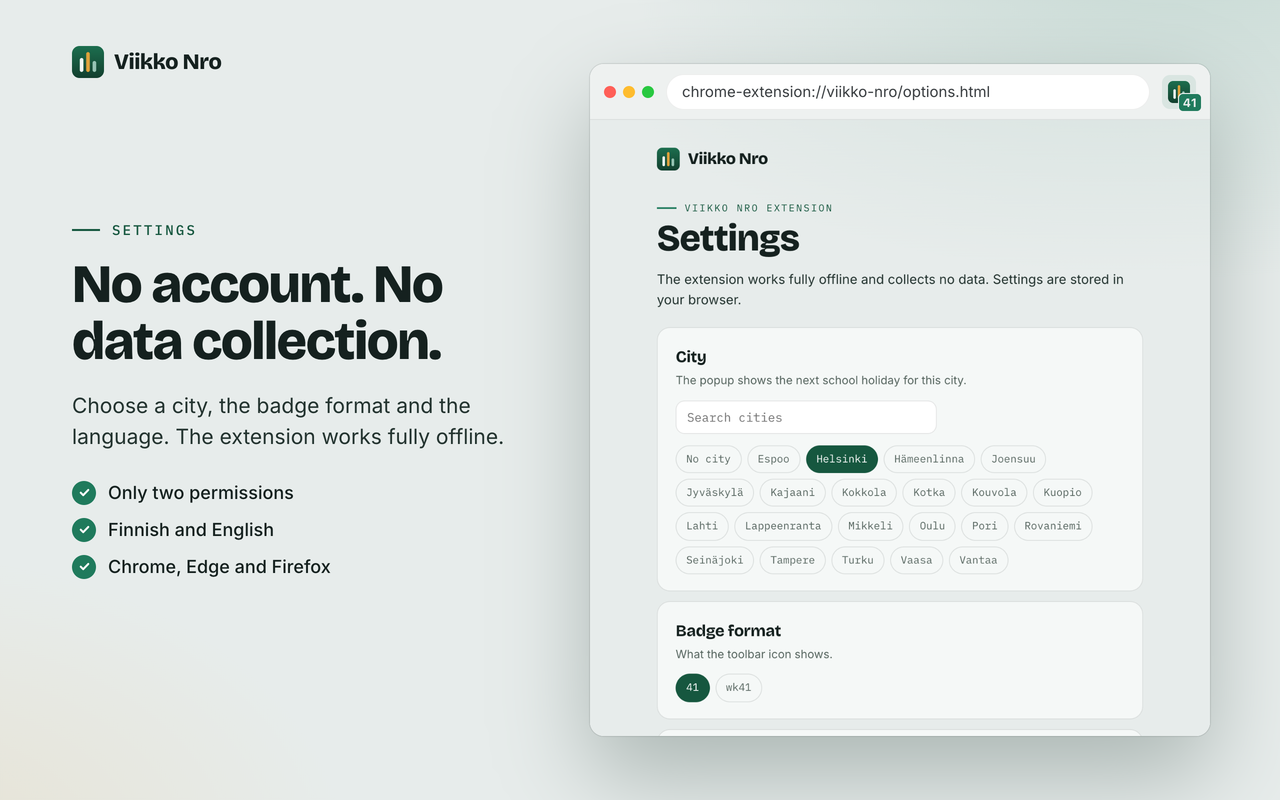
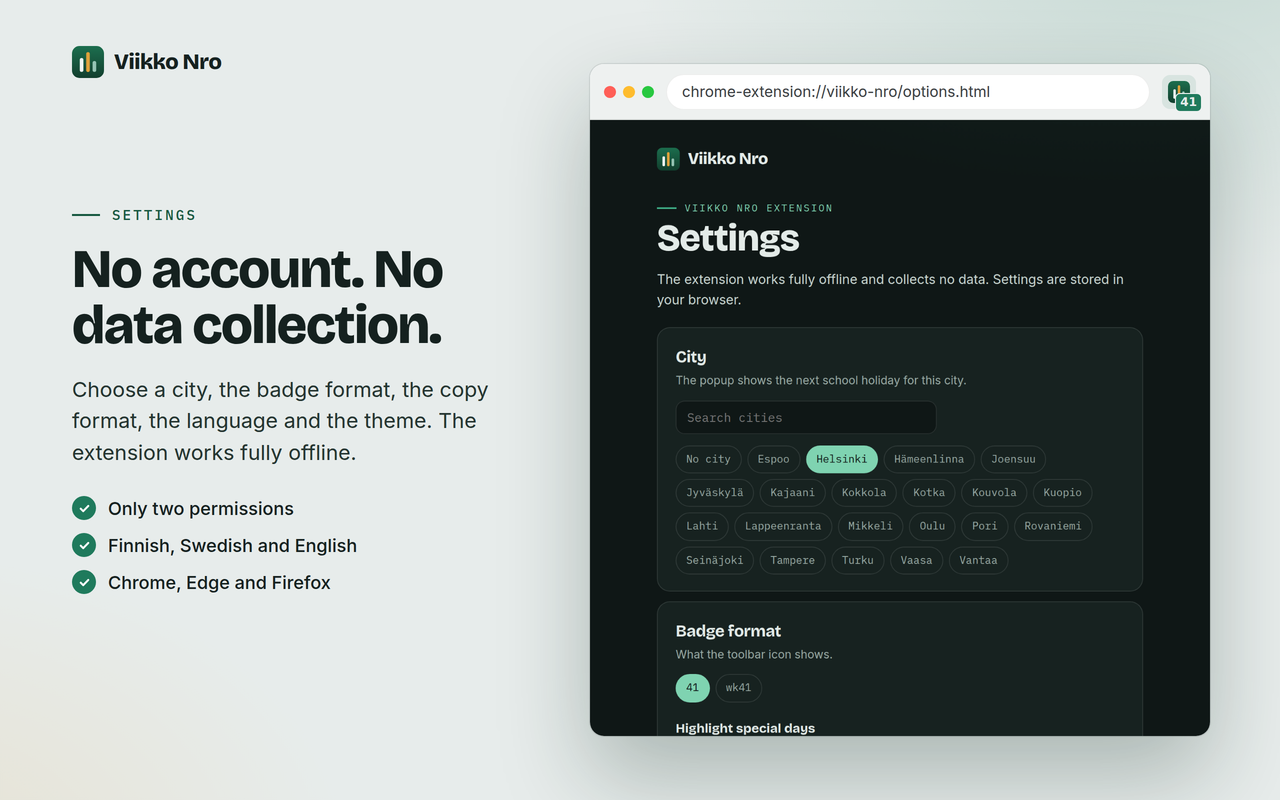
Prepare 0.2.0: version, store listings and store graphics
- Version 0.2.0.
- Store descriptions and summaries rewritten for the new features
  (working days, month view, badge colours, copy, own countdown,
  address-bar day counts, dark theme, shortcut), plus a new Swedish
  listing. The listing tests now cover all three languages.
- store:assets now writes Finnish, English and Swedish sets: screenshot 2
  shows the month view with the next-holiday and countdown rows, and a
  new screenshot 5 shows the dark theme. All images regenerated.
- Publishing docs, the storage justification and reviewer notes list the
  Swedish listing and the current settings.

Claude-Session: https://claude.ai/code/session_015XEXmfnqDdbGqGkUht3NmL

diff --git a/store/listing/listing.test.ts b/store/listing/listing.test.ts
@@ -5,7 +5,7 @@ import dataset from "../../src/data/generated/dataset.json";
 
 const read = (file: string) => readFileSync(path.join(import.meta.dirname, file), "utf8").trim();
 
-describe.each(["fi", "en"])("store listing (%s)", (lang) => {
+describe.each(["fi", "en", "sv"])("store listing (%s)", (lang) => {
   const summary = read(`${lang}/summary.txt`);
   const description = read(`${lang}/description.txt`);
 
@@ -24,7 +24,7 @@ describe.each(["fi", "en"])("store listing (%s)", (lang) => {
   });
 
   it("states the city count the extension ships", () => {
-    const match = /(\d+) (suomalaista kaupunkia|Finnish cities)/.exec(description);
+    const match = /(\d+) (suomalaista kaupunkia|Finnish cities|finländska städer)/.exec(description);
     expect(Number(match?.[1])).toBe(dataset.schoolHolidays.cities.length);
   });
 });

diff --git a/docs/store-listing.md b/docs/store-listing.md
@@ -4,21 +4,21 @@ Everything to paste into the Chrome Web Store, Microsoft Edge Add-ons and Firefo
 
 ## Copy files
 
-| What | Finnish (default) | English | Used by |
-| --- | --- | --- | --- |
-| Name, max 75 | `public/_locales/fi/messages.json` → `extName` | `…/en/…` | All stores. Read from the manifest, not typed into a form. |
-| Short description, max 132 | `…/fi/…` → `extDescription` | `…/en/…` | CWS summary and Edge short description, from the manifest |
-| Summary, max 250 | [`store/listing/fi/summary.txt`](../store/listing/fi/summary.txt) | [`en`](../store/listing/en/summary.txt) | AMO summary |
-| Detailed description | [`store/listing/fi/description.txt`](../store/listing/fi/description.txt) | [`en`](../store/listing/en/description.txt) | CWS description, Edge description, AMO description |
+| What | Finnish (default) | English | Swedish | Used by |
+| --- | --- | --- | --- | --- |
+| Name, max 75 | `public/_locales/fi/messages.json` → `extName` | `…/en/…` | `…/sv/…` | All stores. Read from the manifest, not typed into a form. |
+| Short description, max 132 | `…/fi/…` → `extDescription` | `…/en/…` | `…/sv/…` | CWS summary and Edge short description, from the manifest |
+| Summary, max 250 | [`store/listing/fi/summary.txt`](../store/listing/fi/summary.txt) | [`en`](../store/listing/en/summary.txt) | [`sv`](../store/listing/sv/summary.txt) | AMO summary |
+| Detailed description | [`store/listing/fi/description.txt`](../store/listing/fi/description.txt) | [`en`](../store/listing/en/description.txt) | [`sv`](../store/listing/sv/description.txt) | CWS description, Edge description, AMO description |
 
 The descriptions are plain text (no Markdown, no HTML), because none of the three stores renders formatting. `pnpm test` checks the store length limits, that the stated city count matches the bundled data, and that no keyword lists have crept back in.
 
 Current values:
 
-| | Finnish | English |
-| --- | --- | --- |
-| Name | Viikko Nro – Viikkonumero työkalupalkissa | Viikko Nro – ISO Week Number in Your Toolbar |
-| Short description | Mikä viikko nyt on? Kuluvan viikon numero työkalupalkissa, viikon päivämäärät, liputuspäivät ja koululomat. Toimii ilman verkkoa. | What week is it? The current ISO week number in your toolbar, plus week dates, Finnish flag days and school holidays. Works offline. |
+| | Finnish | English | Swedish |
+| --- | --- | --- | --- |
+| Name | Viikko Nro – Viikkonumero työkalupalkissa | Viikko Nro – ISO Week Number in Your Toolbar | Viikko Nro – ISO-veckonummer i verktygsfältet |
+| Short description | Mikä viikko nyt on? Kuluvan viikon numero työkalupalkissa, viikon päivämäärät, liputuspäivät ja koululomat. Toimii ilman verkkoa. | What week is it? The current ISO week number in your toolbar, plus week dates, Finnish flag days and school holidays. Works offline. | Vilken vecka är det? Veckans nummer i verktygsfältet, veckans datum, finska flaggdagar och skollov. Fungerar offline. |
 
 ## How the copy is optimized
 
@@ -62,8 +62,9 @@ Generated by `pnpm store:assets` (promo tiles and screenshots) and `pnpm icons` 
 | `store/edge-logo-300x300.png` | 300×300 | – | Extension logo | – |
 | `store/fi/promo-small-440x280.png` | 440×280 | Small promo tile | Small promo tile (Finnish listing) | – |
 | `store/fi/promo-marquee-1400x560.png` | 1400×560 | Marquee promo tile | Large promo tile (Finnish listing) | – |
-| `store/fi/screenshot-1-toolbar.png` … `-4-settings.png` | 1280×800 | Screenshots, Finnish | Screenshots, Finnish | Screenshots |
+| `store/fi/screenshot-1-toolbar.png` … `-5-dark.png` | 1280×800 | Screenshots, Finnish | Screenshots, Finnish | Screenshots |
 | `store/en/…` | same | Screenshots, English | English listing | – |
+| `store/sv/…` | same | Screenshots, Swedish | Swedish listing | – |
 
 The Chrome Web Store promo tiles are not localized, so use the Finnish ones there.
 
@@ -75,11 +76,11 @@ The Chrome Web Store promo tiles are not localized, so use the Finnish ones ther
 
 | Field | Value |
 | --- | --- |
-| Description | `store/listing/fi/description.txt`. Then *Add language → English* with `store/listing/en/description.txt` and the English screenshots. |
+| Description | `store/listing/fi/description.txt`. Then *Add language → English* with `store/listing/en/description.txt` and the English screenshots, and *Add language → Swedish* with `store/listing/sv/description.txt` and `store/sv/`. |
 | Category | Productivity → Workflow & Planning |
 | Language | Finnish |
 | Store icon | `store/icon-128x128.png` |
-| Screenshots | `store/fi/screenshot-1-toolbar.png`, `-2-calendar`, `-3-address-bar`, `-4-settings` |
+| Screenshots | `store/fi/screenshot-1-toolbar.png`, `-2-calendar`, `-3-address-bar`, `-4-settings`, `-5-dark` |
 | Small promo tile | `store/fi/promo-small-440x280.png` |
 | Marquee promo tile | `store/fi/promo-marquee-1400x560.png` |
 | Official URL | `viikkonro.fi` (listed once the domain is verified in Google Search Console under the same Google account) |
@@ -92,7 +93,7 @@ The Chrome Web Store promo tiles are not localized, so use the Finnish ones ther
 | Field | Value |
 | --- | --- |
 | Single purpose | Shows the current ISO 8601 week number in the browser toolbar, with that week's dates and Finnish calendar information (flag days, school holidays), and looks up week numbers typed in the address bar. |
-| `storage` justification | Saves the user's three settings (city for school holidays, badge format, language) and the badge text last applied, so the badge is restored when the background service worker restarts. |
+| `storage` justification | Saves the user's settings (city for school holidays, badge format and colours, language, theme, copy format, month view on/off, an optional countdown date) and the badge text last applied, so the badge is restored when the background service worker restarts. |
 | `alarms` justification | Updates the week number on the toolbar badge at local midnight, with an hourly check in case the computer was asleep at midnight. |
 | Remote code | No, I am not using remote code. |
 | Data usage | Tick none of the data types. Tick all three certifications. |
@@ -103,7 +104,7 @@ The Chrome Web Store promo tiles are not localized, so use the Finnish ones ther
 | Field | Value |
 | --- | --- |
 | Category | Productivity |
-| Description | `store/listing/fi/description.txt` (Finnish listing), `…/en/description.txt` (English listing) |
+| Description | `store/listing/fi/description.txt` (Finnish listing), `…/en/description.txt` (English listing), `…/sv/description.txt` (Swedish listing) |
 | Extension logo | `store/edge-logo-300x300.png` |
 | Small / large promo tile | `store/<lang>/promo-small-440x280.png`, `store/<lang>/promo-marquee-1400x560.png` |
 | Screenshots | `store/<lang>/screenshot-*.png` |
@@ -118,8 +119,8 @@ The Chrome Web Store promo tiles are not localized, so use the Finnish ones ther
 | Field | Value |
 | --- | --- |
 | Add-on URL slug | `viikko-nro` |
-| Summary | `store/listing/fi/summary.txt`, plus the English translation from `…/en/summary.txt` |
-| Description | `store/listing/fi/description.txt`, plus the English translation |
+| Summary | `store/listing/fi/summary.txt`, plus the English and Swedish translations from `…/en/summary.txt` and `…/sv/summary.txt` |
+| Description | `store/listing/fi/description.txt`, plus the English and Swedish translations |
 | Categories | Other (optionally also Search Tools, for the `vk` address bar keyword) |
 | Support email / website | Your contact email / `https://viikkonro.fi/ota-yhteytta` |
 | License | All Rights Reserved, unless you decide to open-source the code |

diff --git a/docs/PUBLISHING.md b/docs/PUBLISHING.md
@@ -31,7 +31,7 @@ For later releases, first raise `version` in `package.json`. The stores reject a
 
 - [ ] The privacy policy section from [store-listing.md](store-listing.md#privacy-policy-section-for-viikkonrofitietosuoja) is live on https://viikkonro.fi/tietosuoja.
 - [ ] You have tried the build locally in Chrome and Firefox (next section).
-- [ ] The screenshots in `store/fi/` and `store/en/` look right.
+- [ ] The screenshots in `store/fi/`, `store/en/` and `store/sv/` look right.
 - [ ] `https://viikkonro.fi/ota-yhteytta` works. It is the support URL and the page shown after uninstall.
 
 ## 2. Try it locally first
@@ -65,7 +65,7 @@ Check that the badge shows the week, the popup opens, the settings save, and typ
 1. Click **New item** and upload `viikkonro-extension-<version>-chrome.zip`.
 2. **Store listing** tab: fill in the fields from [store-listing.md → Chrome Web Store](store-listing.md#chrome-web-store-fields).
    - Paste the Finnish description, add the screenshots, store icon and both promo tiles.
-   - Click **Add language**, choose English, and paste the English description with the English screenshots.
+   - Click **Add language**, choose English, and paste the English description with the English screenshots. Do the same for Swedish with `store/listing/sv/` and `store/sv/`.
    - The name and short description come from the package, so there is nothing to type for them.
 3. **Privacy** tab: paste the single purpose statement and the `storage` and `alarms` justifications, answer **No** to remote code, tick no data types, tick the three certifications, and enter the privacy policy URL.
 4. **Distribution** tab: visibility **Public**, regions **All regions**. You can restrict this to Finland, but English users abroad search for ISO week numbers too.
@@ -83,7 +83,7 @@ Edge uses the same Chrome zip. Edge is 11% of desktop browsing in Finland, so it
 2. Click **Create new extension** and upload `viikkonro-extension-<version>-chrome.zip`.
 3. **Availability:** Public, all markets.
 4. **Properties:** category Productivity, privacy policy URL, website and support URL. Mature content: No.
-5. **Store listings:** add Finnish and English. For each, paste the description, then upload the 300×300 logo, promo tiles and screenshots for that language, and add the search terms. All values are in [store-listing.md → Edge](store-listing.md#microsoft-edge-add-ons-fields).
+5. **Store listings:** add Finnish, English and Swedish. For each, paste the description, then upload the 300×300 logo, promo tiles and screenshots for that language, and add the search terms. All values are in [store-listing.md → Edge](store-listing.md#microsoft-edge-add-ons-fields).
 6. **Submit.** In *Notes for certification*, paste `REVIEWER_NOTES.md`.
 
 Certification takes up to 7 business days.
@@ -102,7 +102,7 @@ Certification takes up to 7 business days.
    - Paste the Finnish summary and description.
    - Category Other, support contact, license (All Rights Reserved unless you want open source).
 6. In **Notes to reviewer**, paste `REVIEWER_NOTES.md`. It has the build commands.
-7. Submit. Then open **Edit Product Page** to upload the screenshots under **Images**, and use **Manage translations** to add the English summary and description.
+7. Submit. Then open **Edit Product Page** to upload the screenshots under **Images**, and use **Manage translations** to add the English and Swedish summaries and descriptions.
 
 Automatic validation runs in minutes, and the add-on appears once it is signed. Because source code is attached, a human reviewer may also check it, which can take days to a few weeks. The page is `https://addons.mozilla.org/firefox/addon/viikko-nro/`.
 

diff --git a/REVIEWER_NOTES.md b/REVIEWER_NOTES.md
@@ -18,12 +18,13 @@ The build refuses to run when the bundled data doesn't cover the current and nex
 
 - Shows the current ISO 8601 week number as the toolbar badge.
 - Popup: the week's dates and working days, today's flag day or public holiday, the next public holiday, and the next school holiday for a city chosen in the options. A button copies the week and its dates to the clipboard (`navigator.clipboard.writeText` on a click, so no clipboard permission).
-- Address bar keyword `vk`: `vk 42`, `vk 42 2027`, `vk 13.10.2026`, `vk +3`, `vk 42-50` or `vk juhannus` resolves to a week.
+- Address bar keyword `vk`: `vk 42`, `vk 42 2027`, `vk 13.10.2026`, `vk +3`, `vk 42-50`, `vk juhannus` or `vk 1.3.–15.6.` resolves to a week; dates and ranges also show day and working-day counts.
+- Optional month calendar, own countdown and dark theme in the popup; Finnish, English and Swedish UI.
 - Keyboard shortcut: `_execute_action` with a suggested key (`Alt+Shift+W`) opens the popup. Commands need no permission.
 
 ## Permissions
 
-- `storage`: the three user settings (city, badge format, language) and the last badge state.
+- `storage`: the user's settings (city, badge format and colours, language, theme, copy format, month view on/off, an optional countdown date and label) and the last badge state.
 - `alarms`: updates the badge at local midnight, with an hourly fallback.
 
 No host permissions, no content scripts, no remote code and no network requests. The extension collects no data (`data_collection_permissions: none`).

diff --git a/README.md b/README.md
@@ -78,8 +78,8 @@ It covers the current and next calendar year, and the build fails if either is m
 | `public/icon/16.png`, `32.png` | Pixel-aligned redraws in `src/assets/icons/`, so the toolbar icon stays sharp | `pnpm icons` |
 | `public/icon/48.png`, `96.png`, `128.png` | `src/assets/brand-mark.svg` (the site favicon). The 128 px icon has Chrome's required 16 px padding. | `pnpm icons` |
 | `store/icon-128x128.png`, `store/edge-logo-300x300.png` | Same mark | `pnpm icons` |
-| `store/<fi,en>/promo-small-440x280.png`, `promo-marquee-1400x560.png` | Real extension captures on the site design | `pnpm store:assets` |
-| `store/<fi,en>/screenshot-1…4-*.png` (1280×800) | Same | `pnpm store:assets` |
+| `store/<fi,en,sv>/promo-small-440x280.png`, `promo-marquee-1400x560.png` | Real extension captures on the site design | `pnpm store:assets` |
+| `store/<fi,en,sv>/screenshot-1…5-*.png` (1280×800) | Same | `pnpm store:assets` |
 | `store/listing/<fi,en>/summary.txt`, `description.txt` | SEO/GEO-optimized store copy | edited by hand |
 
 ## Publishing
